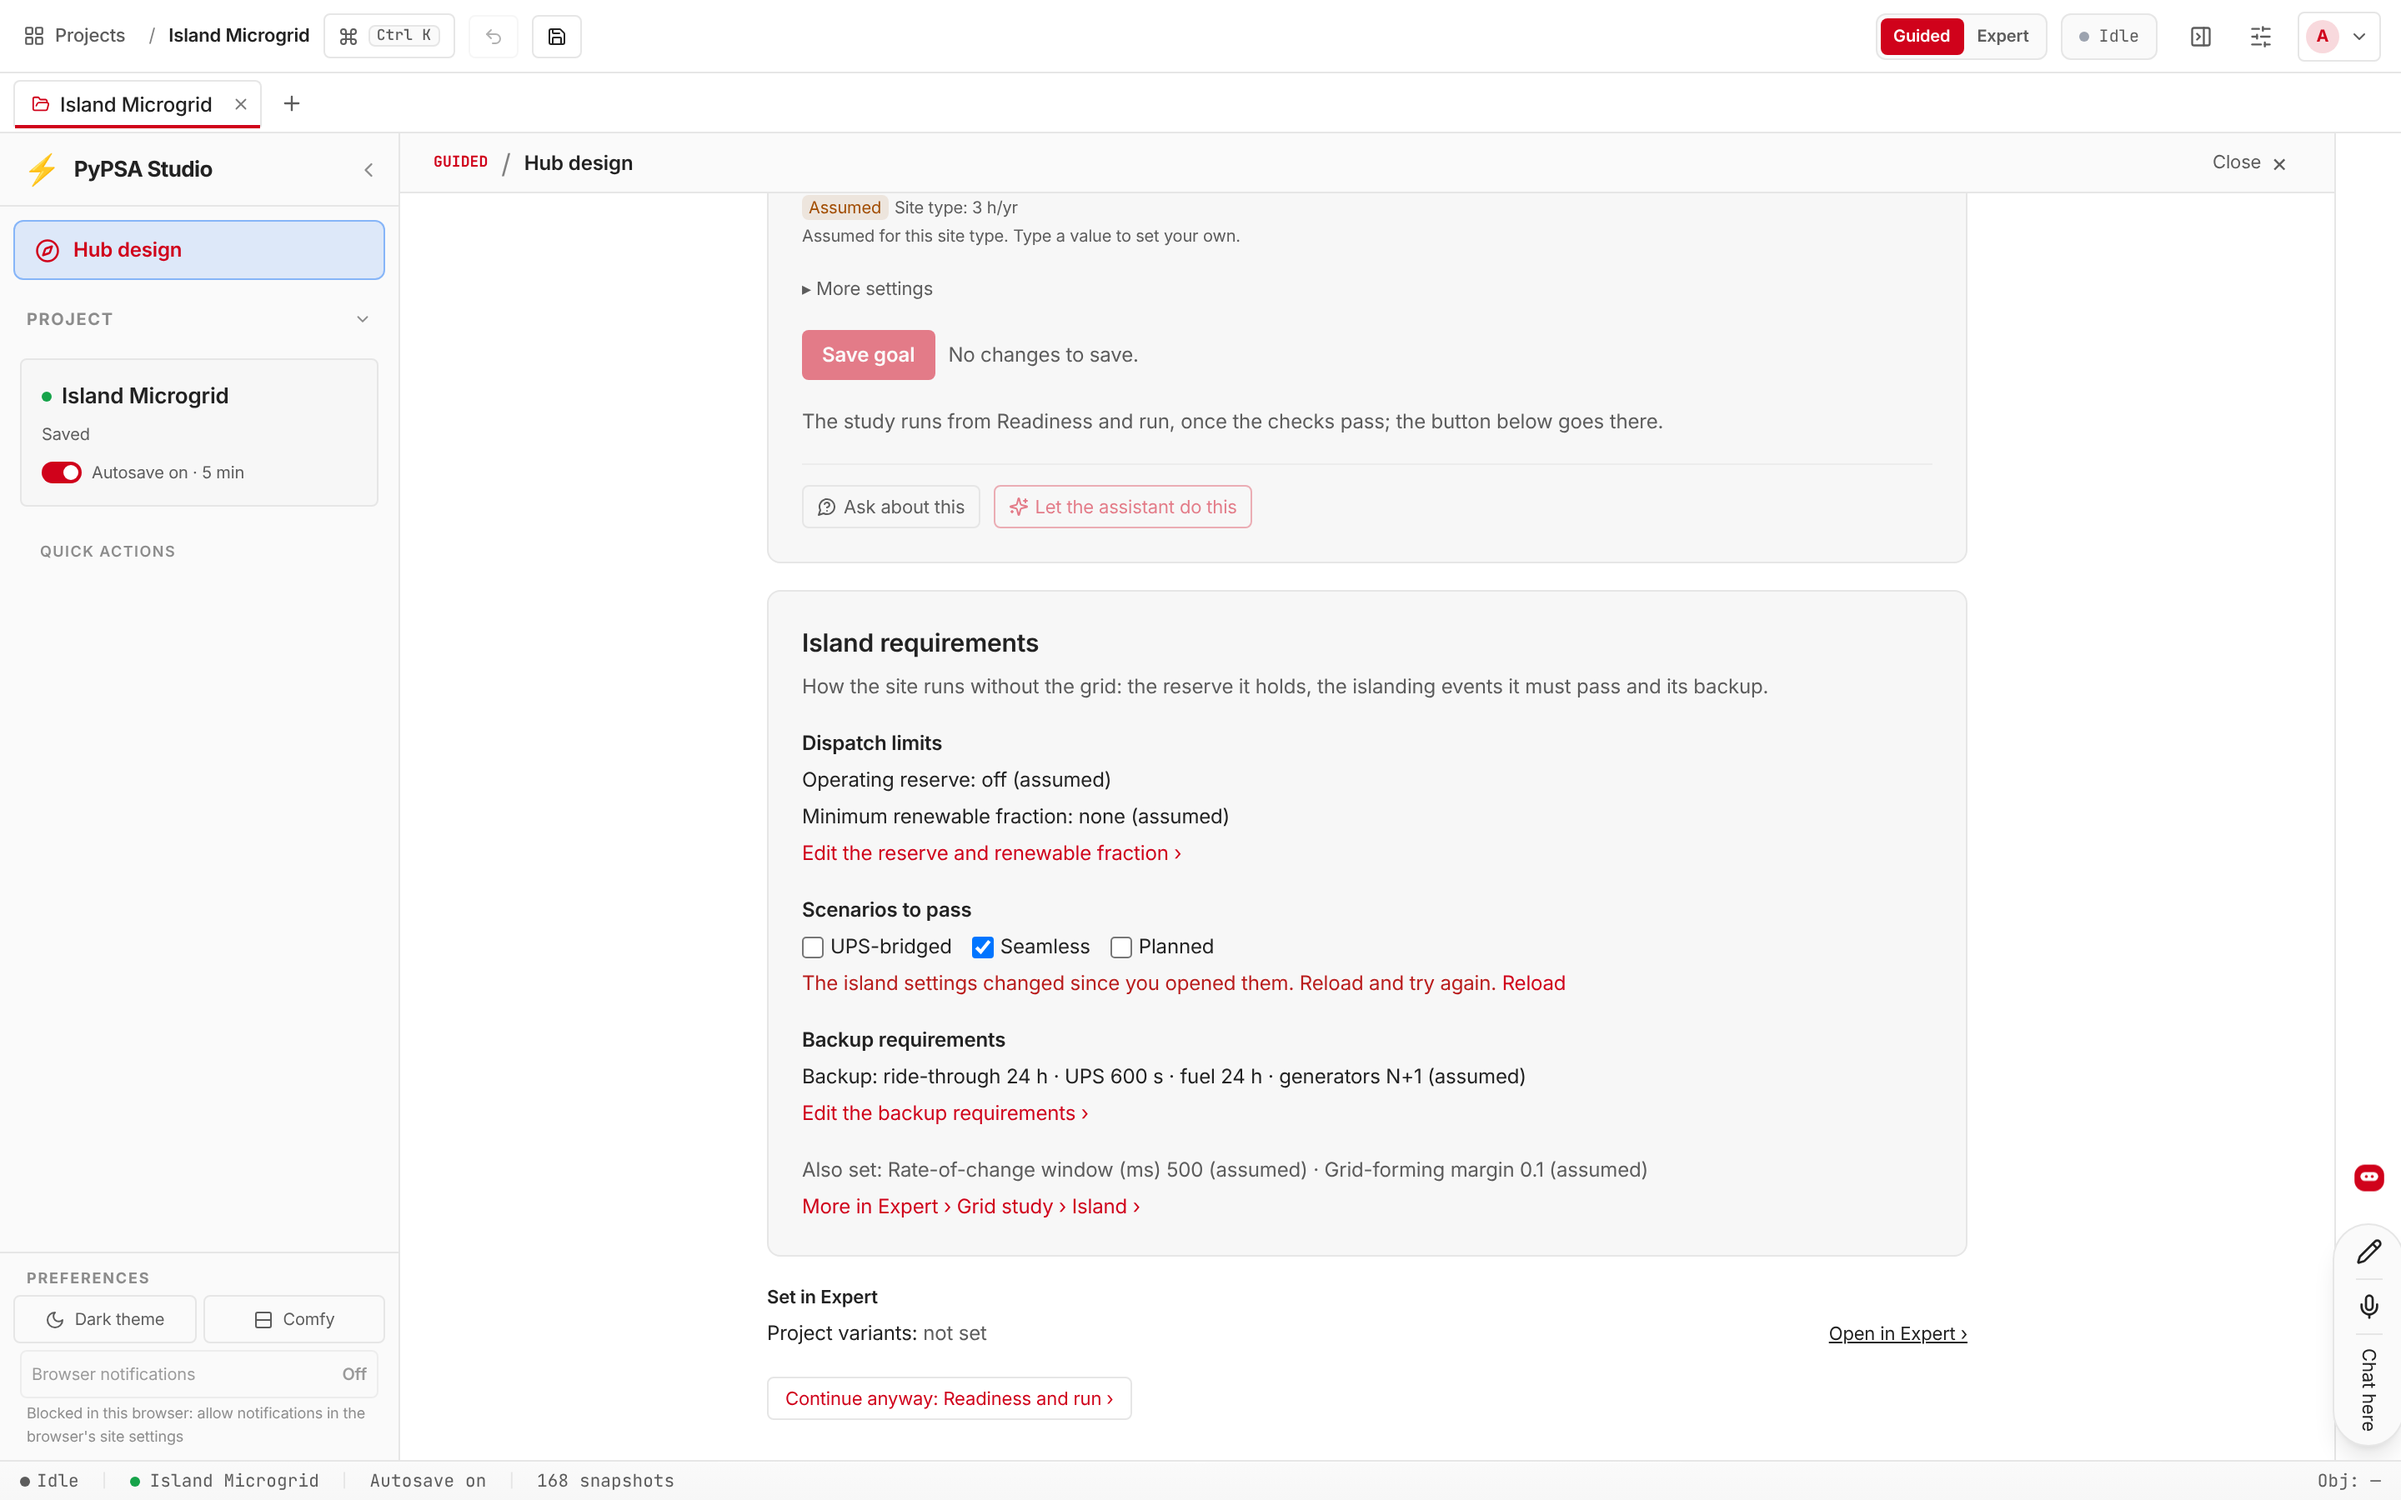
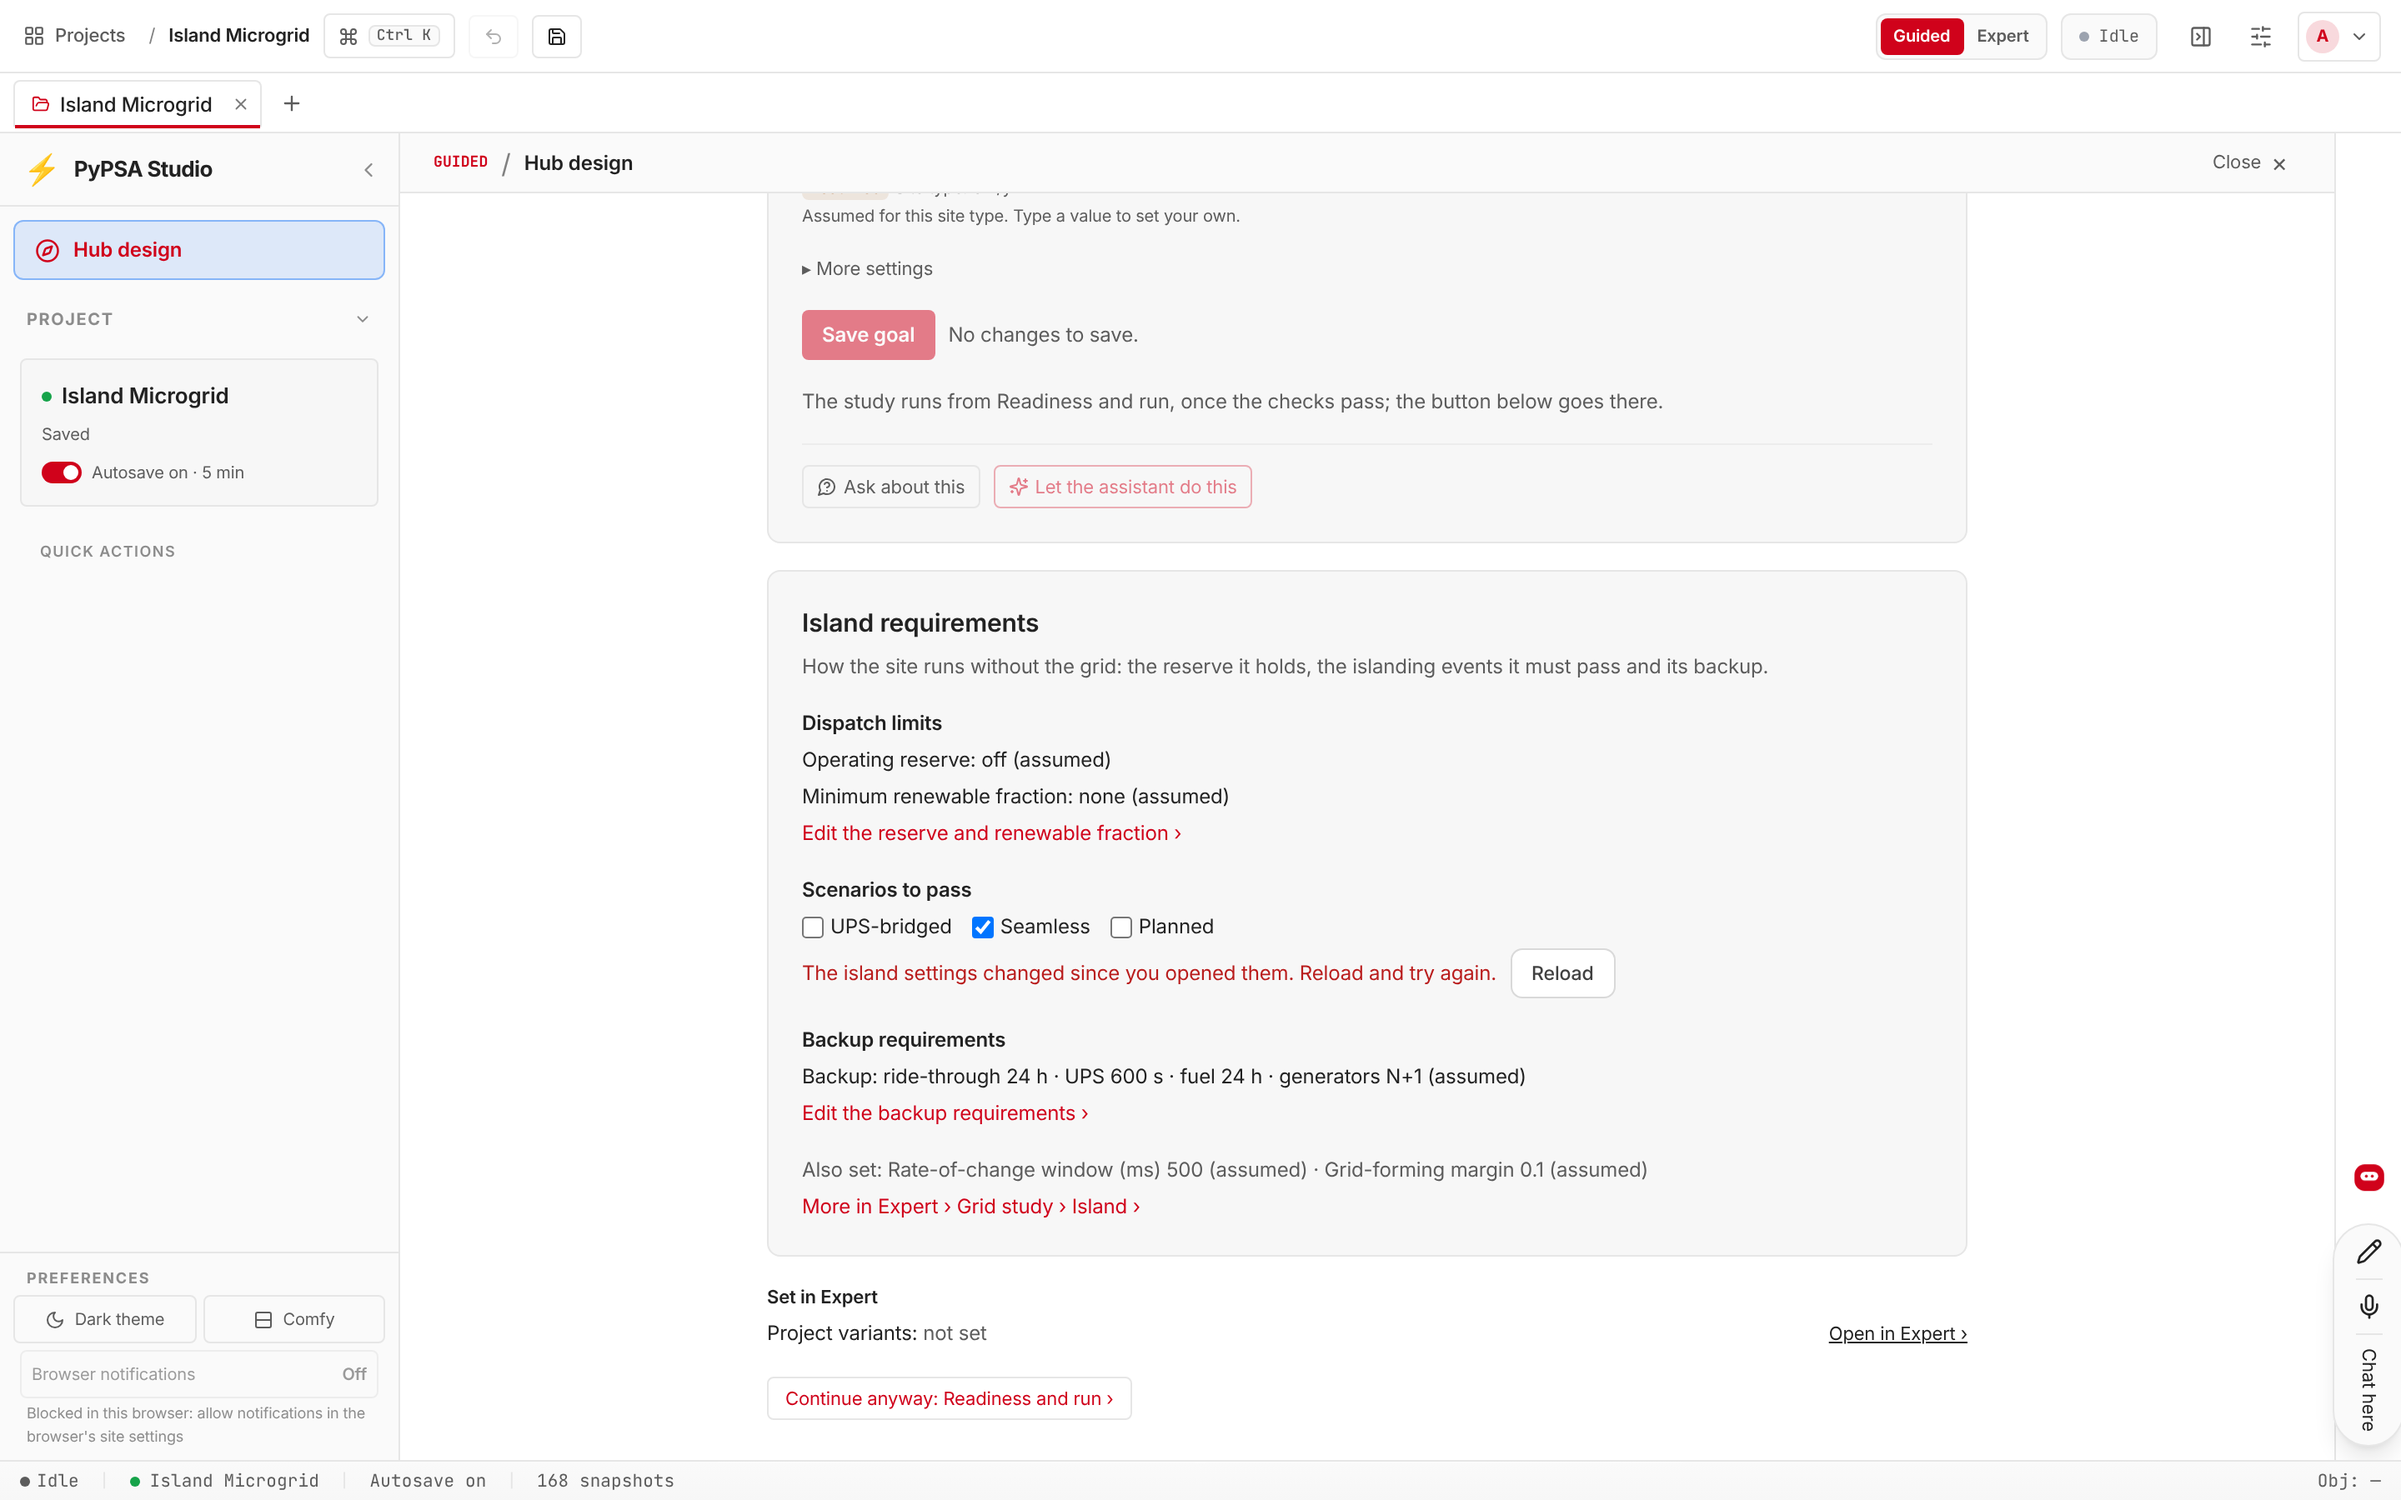
Guided island stale line: Reload is the shared Btn, as in Expert (UX 2 NOT OK @99a4e5cc)
The text-link Reload read as a repeated red word. Shots pr2-i retaken
light and dark.

Claude-Session: https://claude.ai/code/session_01G7qCumgjQJG16tPEyHWryX

Changed region(s): [[0.3125, 0.4044, 0.75, 0.6844], [0.3125, 0.1244, 0.6875, 0.3422]]

diff --git a/pypsa-gui/frontend/src/pages/hubDesign/cards/IslandRequirementsCard.tsx b/pypsa-gui/frontend/src/pages/hubDesign/cards/IslandRequirementsCard.tsx
@@ -31,6 +31,7 @@ import {
   type IslandRequirementNumber,
 } from '../../islandWords'
 import { withReturnFrom } from '../../../layout/flowNavigation'
+import { Btn } from '../../../components/PageKit'
 import type { FlowTarget } from '../../../api/flow'
 
 type ShareKey = 'min_renewable_fraction' | keyof typeof RESERVE_LABELS
@@ -150,8 +151,9 @@ function SaveError({ error, onReload }: { error: unknown; onReload: () => void }
   if (!error) return null
   if (isIslandConfigChanged(error)) {
     return (
-      <p role="alert" data-testid="island-stale" className="text-[12px] text-danger">
-        {STALE}{' '}<button type="button" className={BTN} onClick={onReload}>Reload</button>
+      <p role="alert" data-testid="island-stale" className="text-[12px] text-danger flex gap-2 items-center">
+        {STALE}
+        <Btn onClick={onReload}>Reload</Btn>
       </p>
     )
   }
